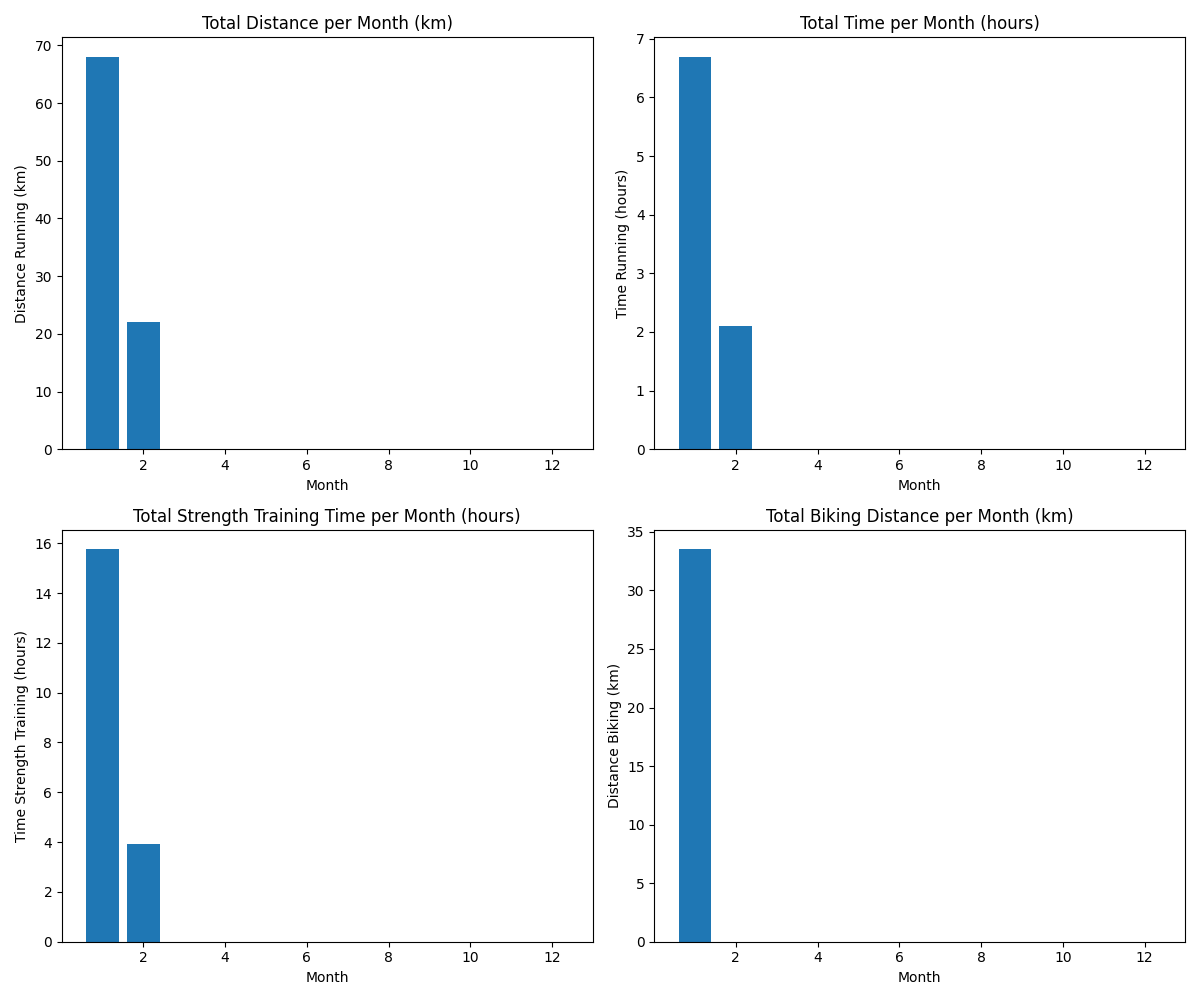
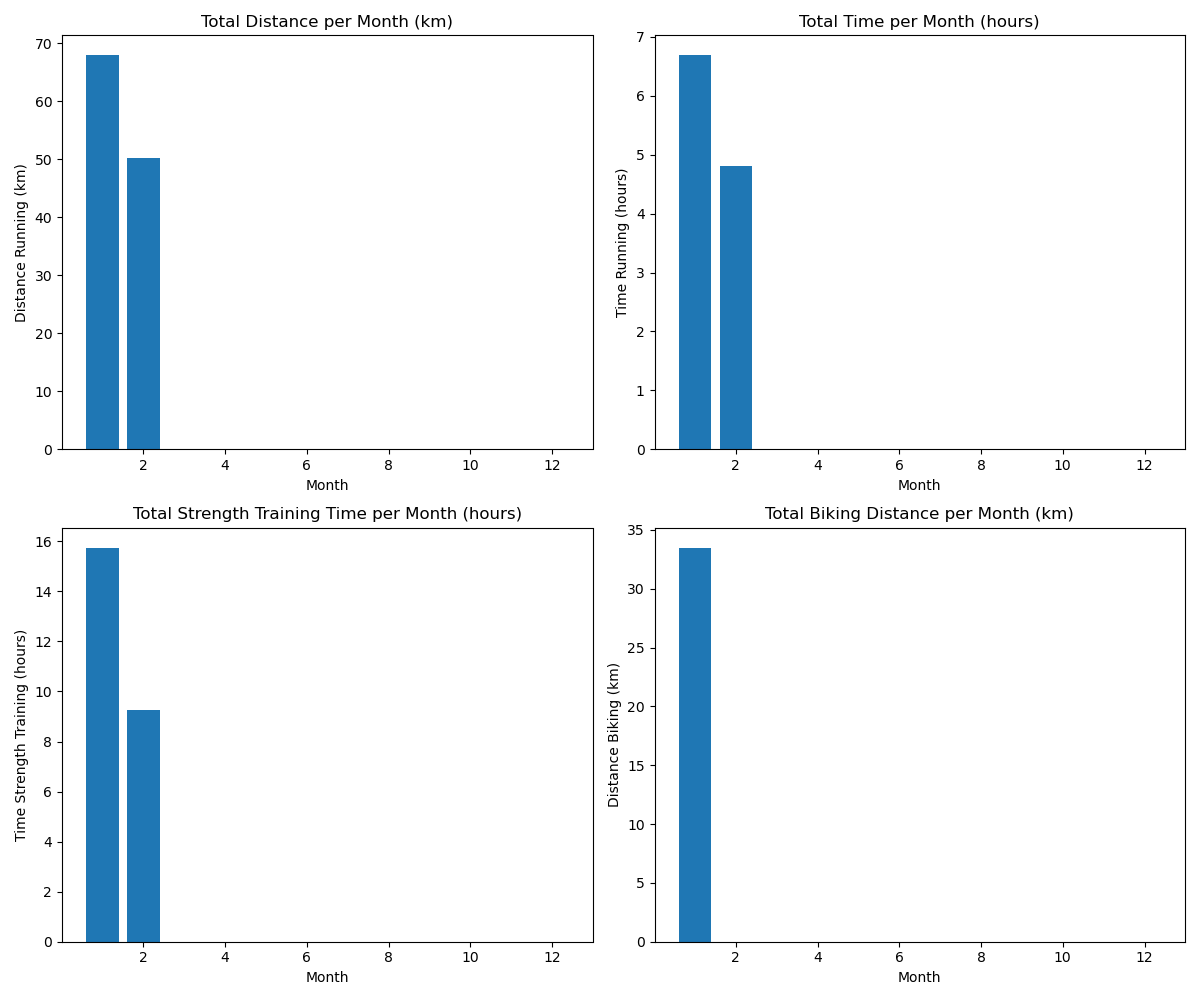
sport update 12.2

diff --git a/Sport/Sport_2026_report.md b/Sport/Sport_2026_report.md
@@ -3,19 +3,19 @@
 ## Sport Counts
 | type   |   count |
 |:-------|--------:|
-| F      |      24 |
+| F      |      30 |
 | K      |       5 |
-| Total  |      29 |
+| Total  |      35 |
 
 ## Summary
-- **Total distance run on treadmill:** 90.00 km
+- **Total distance run on treadmill:** 118.20 km
 - **Total distance run outside:** 0.00 km
 - **Total distance cycled:** 33.50 km
 - **Total distance swimming:** 0.00 km
-- **Total time spent on strength training:** 19h 40min
+- **Total time spent on strength training:** 25h 00min
 
 ## Average Speeds
-- **Treadmill running:** 10.34 km/h
+- **Treadmill running:** 10.40 km/h
 - **Outside running:** nan km/h
 - **Cycling:** 23.12 km/h
 - **Swimming:** nan km/h
